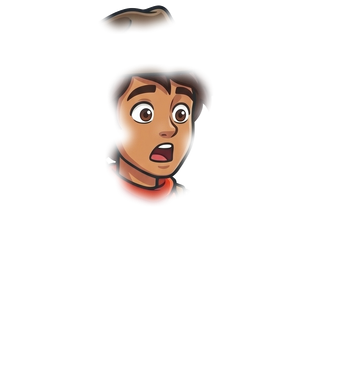
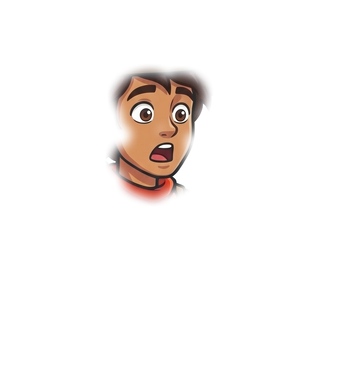
feat: an edit lands at its master's size, and a face layer takes only the face
Claude-Session: https://claude.ai/code/session_01NQk9Q1WZoZfDzoRioyXby1

Changed region(s): [[0.2857, 0.0, 0.4857, 0.088]]

diff --git a/scripts/faceLayer.ts b/scripts/faceLayer.ts
@@ -79,21 +79,89 @@ export const squaredDistanceTo = (mask: Uint8Array, width: number, height: numbe
   return grid
 }
 
+/** Each 8-connected run of set pixels: a label per pixel (0 for clear), and the size of each label from 1. */
+const components = (mask: Uint8Array, width: number, height: number) => {
+  const label = new Int32Array(width * height)
+  const sizes: number[] = []
+  for (let start = 0; start < label.length; start++) {
+    if (!mask[start] || label[start]) continue
+    const id = sizes.length + 1
+    let size = 0
+    const stack = [start]
+    label[start] = id
+    while (stack.length > 0) {
+      const i = stack.pop()!
+      size++
+      const x = i % width
+      const y = (i - x) / width
+      for (let dy = -1; dy <= 1; dy++)
+        for (let dx = -1; dx <= 1; dx++) {
+          const nx = x + dx
+          const ny = y + dy
+          if (nx < 0 || ny < 0 || nx >= width || ny >= height) continue
+          const j = ny * width + nx
+          if (mask[j] && !label[j]) {
+            label[j] = id
+            stack.push(j)
+          }
+        }
+    }
+    sizes.push(size)
+  }
+  return { label, sizes }
+}
+
+/**
+ * Which parts of an opened difference are the face: the largest, and every other part linked to it — a
+ * part of `speck` pixels or more within `near` (a floating brow, a sweat drop), a smaller one only within
+ * `touch` (where the two would meet once grown). Linked parts link further, so the face is gathered until
+ * nothing more joins; what is left is a sub-pixel shift redrawn at a boot or a hat brim.
+ */
+const faceParts = (
+  core: Uint8Array,
+  width: number,
+  height: number,
+  { near, speck, touch }: { near: number; speck: number; touch: number }
+): Uint8Array => {
+  const { label, sizes } = components(core, width, height)
+  if (sizes.length === 0) return core
+  const kept = new Uint8Array(sizes.length + 1)
+  kept[sizes.indexOf(Math.max(...sizes)) + 1] = 1
+  for (;;) {
+    const toFace = squaredDistanceTo(
+      Uint8Array.from(label, l => kept[l]),
+      width,
+      height
+    )
+    const closest = new Float64Array(sizes.length + 1).fill(Infinity)
+    for (let i = 0; i < label.length; i++) if (label[i] && toFace[i] < closest[label[i]]) closest[label[i]] = toFace[i]
+    let joined = false
+    sizes.forEach((size, k) => {
+      const reach = size >= speck ? near : touch
+      if (kept[k + 1] || closest[k + 1] > reach * reach) return
+      kept[k + 1] = 1
+      joined = true
+    })
+    if (!joined) return Uint8Array.from(label, l => kept[l])
+  }
+}
+
 /**
  * The face: the difference opened by `erode` (a stroke thinner than twice that is an outline redrawn,
- * not an expression) and then grown by `grow`, so the mask holds the brows to the chin with room for a
- * feather beyond them.
+ * not an expression), cut to its parts (see faceParts) and then grown by `grow`, so the mask holds the
+ * brows to the chin with room for a feather beyond them.
  */
 export const faceRegion = (
   diff: Uint8Array,
   width: number,
   height: number,
-  { erode, grow }: { erode: number; grow: number }
+  { erode, grow, near, speck }: { erode: number; grow: number; near: number; speck: number }
 ): Uint8Array => {
   const clear = diff.map(b => (b ? 0 : 1))
   const toClear = squaredDistanceTo(clear, width, height)
-  const core = toClear.map(d => (d > erode * erode ? 1 : 0))
-  const toCore = squaredDistanceTo(Uint8Array.from(core), width, height)
+  const opened = Uint8Array.from(toClear, d => (d > erode * erode ? 1 : 0))
+  const core = faceParts(opened, width, height, { near, speck, touch: 2 * (erode + grow) })
+  const toCore = squaredDistanceTo(core, width, height)
   const reach = (erode + grow) * (erode + grow)
   return Uint8Array.from(toCore, d => (d <= reach ? 1 : 0))
 }

diff --git a/scripts/repaintLand.spec.ts b/scripts/repaintLand.spec.ts
@@ -1,8 +1,9 @@
-import { mkdirSync, mkdtempSync, utimesSync, writeFileSync } from "fs"
+import { mkdirSync, mkdtempSync, readFileSync, utimesSync, writeFileSync } from "fs"
 import { tmpdir } from "os"
 import { join } from "path"
 import { describe, expect, it } from "vitest"
-import { landPlan, newestImage, seamlessAxis, substitute, words } from "./repaintLand"
+import sharp from "sharp"
+import { fitToBase, landPlan, newestImage, seamlessAxis, substitute, words } from "./repaintLand"
 import { parse, type Entry } from "./repaintQueue"
 
 const folder = (files: Record<string, number>) => {
@@ -94,6 +95,67 @@ describe("where a landing goes", () => {
       importedBy: "nothing — master only",
     })
     expect(plan).toEqual({ master: "art/masters/characters/someone-proof.jpeg", steps: [] })
+  })
+})
+
+describe("an edit lands at its master's size", () => {
+  const edit = (attachments: string[]): Entry => ({
+    ...entry(""),
+    key: "portrait/someone-face-x",
+    masterOnly: true,
+    master: "art/masters/characters/someone-face-x.jpeg",
+    attachments,
+  })
+
+  it("takes its base from the first attachment among the character masters", () => {
+    const plan = landPlan(
+      edit(["src/assets/someone-250.png", "art/masters/characters/someone.jpeg", "art/masters/characters/other.jpeg"])
+    )
+    expect(plan.base).toBe("art/masters/characters/someone.jpeg")
+  })
+
+  it("has no base when nothing it attaches is a character master", () => {
+    expect(landPlan(edit(["src/assets/someone-250.png"])).base).toBeUndefined()
+  })
+
+  const image = async (dir: string, name: string, width: number, height: number) => {
+    const path = join(dir, name)
+    await sharp({ create: { width, height, channels: 3, background: "#808080" } })
+      .png()
+      .toFile(path)
+    return path
+  }
+  const size = async (path: string) => {
+    const { width, height } = await sharp(path).metadata()
+    return `${width}x${height}`
+  }
+
+  it("scales a download of another size to the base's exact size, both axes", async () => {
+    const dir = mkdtempSync(join(tmpdir(), "repaint-fit-spec-"))
+    const base = await image(dir, "someone.jpeg", 40, 60)
+    const download = await image(dir, "download.png", 41, 59)
+
+    expect(await fitToBase(download, base)).toBe("scaled 41x59 → 40x60 to match someone.jpeg")
+    expect(await size(download)).toBe("40x60")
+  })
+
+  it("leaves a download of the base's size untouched", async () => {
+    const dir = mkdtempSync(join(tmpdir(), "repaint-fit-spec-"))
+    const base = await image(dir, "someone.jpeg", 40, 60)
+    const download = await image(dir, "download.png", 40, 60)
+    const before = readFileSync(download)
+
+    expect(await fitToBase(download, base)).toBeUndefined()
+    expect(readFileSync(download).equals(before)).toBe(true)
+  })
+
+  it("leaves a download untouched without a base, or with one not on disk", async () => {
+    const dir = mkdtempSync(join(tmpdir(), "repaint-fit-spec-"))
+    const download = await image(dir, "download.png", 41, 59)
+
+    expect(await fitToBase(download, undefined)).toBeUndefined()
+    expect(await fitToBase(download, join(dir, "missing.jpeg"))).toBeUndefined()
+    expect(await size(download)).toBe("41x59")
   })
 })
 

diff --git a/scripts/faceLayer.spec.ts b/scripts/faceLayer.spec.ts
@@ -60,7 +60,54 @@ describe("faceRegion", () => {
   it("drops a thin stroke — an outline redrawn a pixel over is not the face", () => {
     const { bits, width, height } = mask([".........", "#########", "........."])
 
-    expect([...faceRegion(bits, width, height, { erode: 1, grow: 0 })].every(b => b === 0)).toBe(true)
+    expect([...faceRegion(bits, width, height, { erode: 1, grow: 0, near: 10, speck: 4 })].every(b => b === 0)).toBe(
+      true
+    )
+  })
+
+  // A 5x5 change opens to a 3x3 core of 9; a 3x3 change to a speck of 1. Erode 1 + grow 1 is a reach of 2,
+  // so a speck joins only where its grown region meets the face's: cores at most 4 apart.
+  const face = (rows: string[]) => {
+    const { bits, width, height } = mask(rows)
+    return boxOf(faceRegion(bits, width, height, { erode: 1, grow: 1, near: 12, speck: 4 }), width, height)
+  }
+  const head = [".#####", ".#####", ".#####", ".#####", ".#####"]
+  const row = (head: string, gap: number, part: string) =>
+    head + ".".repeat(gap) + part + ".".repeat(30 - gap - part.length)
+
+  it("drops a speck far from the face — an outline redrawn at the boots is not part of it", () => {
+    const speck = ["...", "###", "###", "###", "..."]
+    const rows = head.map((h, y) => row(h, 20, speck[y]))
+
+    expect(face(rows)).toEqual({ left: 0, top: 0, width: 7, height: 5 })
+  })
+
+  it("keeps a speck whose grown edge meets the face's — a stray pixel beside the cheek", () => {
+    const speck = ["...", "###", "###", "###", "..."]
+    const rows = head.map((h, y) => row(h, 1, speck[y]))
+
+    expect(face(rows)?.width).toBe(11)
+  })
+
+  it("keeps a part of the face that does not touch it within `near` — a floating brow, a sweat drop", () => {
+    const brow = [".#####", ".#####", ".#####", ".#####", ".#####"]
+    const rows = head.map((h, y) => row(h, 8, brow[y]))
+
+    expect(face(rows)?.width).toBe(21)
+  })
+
+  it("drops a part beyond `near` of the face, however solid", () => {
+    const remnant = [".#####", ".#####", ".#####", ".#####", ".#####"]
+    const rows = head.map((h, y) => row(h, 20, remnant[y]))
+
+    expect(face(rows)).toEqual({ left: 0, top: 0, width: 7, height: 5 })
+  })
+
+  it("keeps the face as the LARGEST change, wherever it is", () => {
+    const big = ["#######", "#######", "#######", "#######", "#######"]
+    const rows = head.map((h, y) => row(h, 20, big[y]))
+
+    expect(face(rows)?.left).toBe(25)
   })
 
   it("keeps a solid change and grows it outward by the grow radius", () => {
@@ -76,7 +123,7 @@ describe("faceRegion", () => {
       ".........",
     ])
 
-    expect(draw(faceRegion(bits, width, height, { erode: 1, grow: 2 }), width)).toEqual([
+    expect(draw(faceRegion(bits, width, height, { erode: 1, grow: 2, near: 10, speck: 4 }), width)).toEqual([
       ".........",
       "....#....",
       "..#####..",

diff --git a/scripts/importPortrait.ts b/scripts/importPortrait.ts
@@ -34,7 +34,8 @@
  *   --face-of=base   write a FACE LAYER: this master is an expression edit of `base`; what moved is cut
  *                    out with a feathered mask (faceLayer.ts), the rest is transparent, and it is framed
  *                    exactly as the base is (pass the base's own framing flags). `Fez.tsx` stacks it on
- *                    the pose. Tuned with --threshold=64 --erode=4 --grow=45 --feather=18.
+ *                    the pose. Tuned with --threshold=64 --erode=4 --grow=45 --feather=18 --near=400
+ *                    --speck=200: only the largest change and the parts linked to it are the face.
  *   --front-of=master for a POSE BASE: also write <name>-front-250.png, the pose's pixels that differ
  *                    from `master` where any of its face layers (every <master>-face-*.jpeg beside it)
  *                    would paint — a straw across the chin. `Fez.tsx` draws it above the face. Written
@@ -398,9 +399,14 @@ const keyed = async (file: string, key: { r: number; g: number; b: number }, tol
   return { data, info, background: edgeBackground({ data, ...info, key, tolerance }) }
 }
 
-type FaceOptions = { threshold: number; erode: number; grow: number; feather: number }
+type FaceOptions = { threshold: number; erode: number; grow: number; feather: number; near: number; speck: number }
 
-const FACE_DEFAULTS: FaceOptions = { threshold: 64, erode: 4, grow: 45, feather: 18 }
+/**
+ * `near` and `speck` measured on the masters: Fez's furthest real parts link at 292px (wistful's far eye)
+ * and are 355px of opened change or more, while the explorer's stray outlines are at most 113px (his boots)
+ * and link at 270px (his hat brim).
+ */
+const FACE_DEFAULTS: FaceOptions = { threshold: 64, erode: 4, grow: 45, feather: 18, near: 400, speck: 200 }
 
 const raw = (file: string) => sharp(file).ensureAlpha().raw().toBuffer({ resolveWithObject: true })
 
@@ -531,6 +537,8 @@ const main = async (): Promise<void> => {
         erode: Number(arg("erode", String(FACE_DEFAULTS.erode))),
         grow: Number(arg("grow", String(FACE_DEFAULTS.grow))),
         feather: Number(arg("feather", String(FACE_DEFAULTS.feather))),
+        near: Number(arg("near", String(FACE_DEFAULTS.near))),
+        speck: Number(arg("speck", String(FACE_DEFAULTS.speck))),
       })
     : undefined
   const frontOf = arg("front-of")

diff --git a/scripts/repaintLand.ts b/scripts/repaintLand.ts
@@ -1,5 +1,6 @@
-import { readdirSync, statSync } from "fs"
-import { join } from "path"
+import { existsSync, readdirSync, statSync } from "fs"
+import { basename, join } from "path"
+import sharp from "sharp"
 import type { Entry } from "./repaintQueue"
 
 export type Axis = "both" | "x"
@@ -13,6 +14,8 @@ export type LandPlan = {
   name?: string
   slot?: string
   seamless?: Axis
+  /** The master an edit was made of, whose canvas it lands on. */
+  base?: string
   steps: Step[]
 }
 
@@ -52,7 +55,10 @@ const flag = (args: string[], name: string) => args.find(a => a.startsWith(`--${
  * commands that import it — the entry's fenced `sh` block when it has one, its `**Import:**` line otherwise.
  */
 export const landPlan = (entry: Entry): LandPlan => {
-  if (entry.masterOnly && entry.master) return { master: entry.master, steps: [] }
+  if (entry.masterOnly && entry.master) {
+    const base = entry.attachments.find(path => path.startsWith("art/masters/characters/") && path !== entry.master)
+    return { master: entry.master, base, steps: [] }
+  }
   const [tier, name] = entry.key.split("/")
   const script = (entry.importScript ?? entry.importedBy)
     .replace(/<file>/g, `art/masters/props/${tier}/${name}.webp`)
@@ -78,6 +84,19 @@ export const landPlan = (entry: Entry): LandPlan => {
     seamless: seamlessAxis(slot),
     steps,
   }
+}
+
+/**
+ * Scales `file` in place to `base`'s exact size when they differ — the generator hands an edit back a few
+ * pixels off its master's canvas, and a face only stacks on a base of the same size. Says what it did.
+ */
+export const fitToBase = async (file: string, base: string | undefined): Promise<string | undefined> => {
+  if (!base || !existsSync(base)) return undefined
+  const [from, to] = await Promise.all([sharp(file).metadata(), sharp(base).metadata()])
+  if (from.width === to.width && from.height === to.height) return undefined
+  const scaled = await sharp(file).resize(to.width, to.height, { fit: "fill" }).toBuffer()
+  await sharp(scaled).toFile(file)
+  return `scaled ${from.width}x${from.height} → ${to.width}x${to.height} to match ${basename(base)}`
 }
 
 /** `$OBJ` and `$SHADOW`, the scaffold's two renders, swapped for the files they were written to. */

diff --git a/scripts/repaintLandRun.ts b/scripts/repaintLandRun.ts
@@ -6,7 +6,7 @@ import sharp from "sharp"
 import { difficulties, type Difficulty } from "../src/data/difficultyLevels"
 import { makeSeamless } from "./makeSeamless"
 import { MIN_STEP, artMean, measureAll, measureRank, rankRow, verdict } from "./rankColour"
-import { landPlan, newestImage, substitute, type Step } from "./repaintLand"
+import { fitToBase, landPlan, newestImage, substitute, type Step } from "./repaintLand"
 import type { Entry } from "./repaintQueue"
 
 const BLENDER = process.env.BLENDER ?? "/Applications/Blender.app/Contents/MacOS/Blender"
@@ -74,6 +74,8 @@ export const land = async (entry: Entry): Promise<void> => {
   try {
     const png = join(work, "master.png")
     await sharp(download).png().toFile(png)
+    const fitted = await fitToBase(png, plan.base)
+    if (fitted) console.log(fitted)
     if (plan.seamless) console.log(`seamless: ${await makeSeamless(png, plan.seamless)}`)
     mkdirSync(dirname(plan.master), { recursive: true })
     const master = sharp(png)

diff --git a/docs/game-design/story/character-art-prompts.md b/docs/game-design/story/character-art-prompts.md
@@ -289,7 +289,8 @@ scarf changes, the tail grows a curl — and a conversation that cuts between th
 **Landing one**, in order:
 
 1. `yarn repaint <key>`, generate, then `yarn repaint <key> --land` saves the download at the entry's
-   `**Master:**` path.
+   `**Master:**` path, scaled to the canvas of the master it attaches (the generator hands edits back a
+   few pixels off it).
 2. Look at it against the pass criterion below. A pose edit that moved the head, or a face edit that moved
    anything outside the face, is re-rolled — never masked around, never accepted.
 3. Run the entry's **Then:** line and add it to `art/rebuild.sh` with the character's others.
